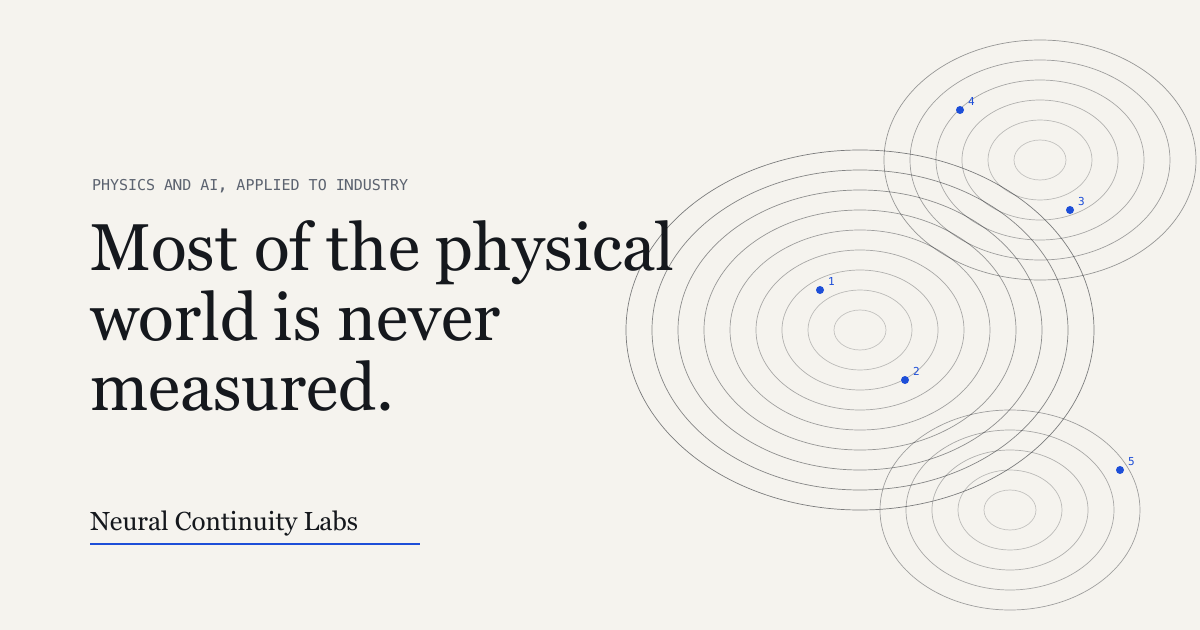
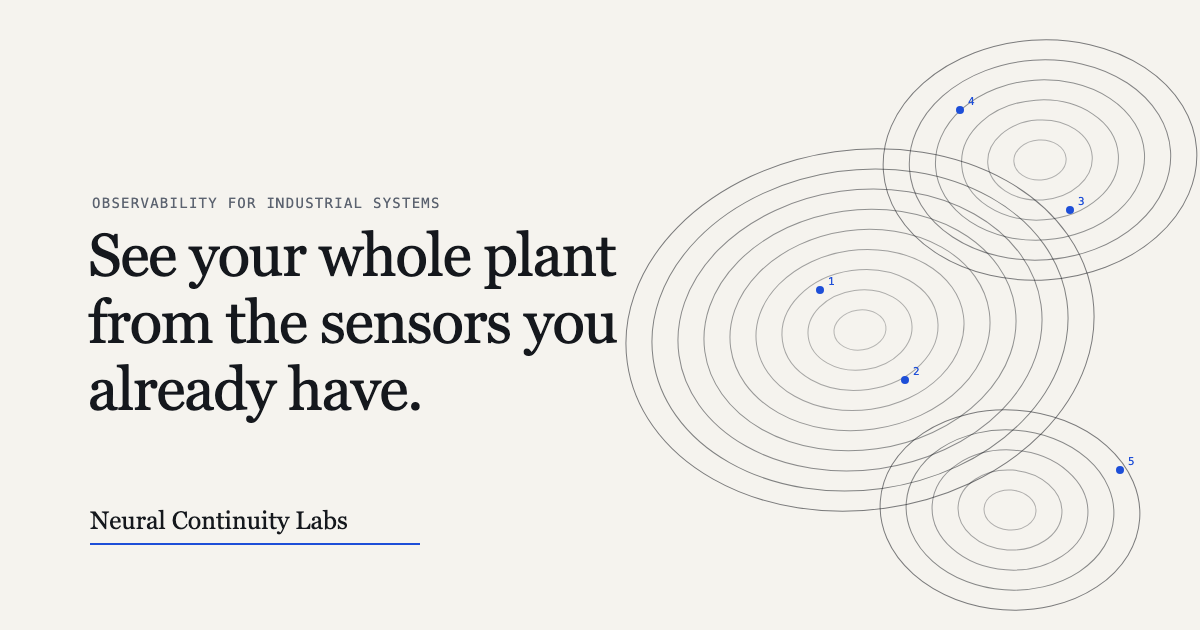
Hero: observability for industrial systems; drop the statement band
Headline 'See your whole plant from the sensors you already have.' under the
eyebrow 'Observability for industrial systems'. The former headline opens the
lead, which is otherwise unchanged. EN, DE, FR, page description and link
preview image updated. Statement band removed. Legal page nav: Mission
instead of the stale Ambition link.

diff --git a/i18n.js b/i18n.js
@@ -2,7 +2,7 @@
    English is also the fallback and the text baked into the HTML for no-JS visitors. */
 window.I18N = {
   "en": {
-    "meta.description": "Most of the physical world is never measured. Neural Continuity Labs builds physics-grounded AI that reconstructs what the sensors miss. Physics and AI, applied to industry.",
+    "meta.description": "See your whole plant from the sensors you already have. Neural Continuity Labs builds physics-grounded AI that reconstructs what the sensors miss. Observability for industrial systems.",
     "meta.title.index": "Neural Continuity Labs",
     "meta.title.legal": "Legal notice · Neural Continuity Labs",
     "skip": "Skip to content",
@@ -31,10 +31,9 @@ window.I18N = {
     "nav.approach": "Approach",
     "nav.industries": "Industries",
     "nav.about": "About",
-    "hero.title": "Most of the physical world is never measured.",
-    "hero.lead": "Neural Continuity Labs builds physics-grounded AI that reconstructs what the sensors miss: the state of an industrial system everywhere, not only where it is measured, with uncertainty an engineer can sign off on.",
+    "hero.title": "See your whole plant from the sensors you already have.",
+    "hero.lead": "Most of the physical world is never measured. Neural Continuity Labs builds physics-grounded AI that reconstructs what the sensors miss: the state of an industrial system everywhere, not only where it is measured, with uncertainty an engineer can sign off on.",
     "hero.cta": "Talk to us",
-    "statement": "The real world, unlike the simulated one, is rich and noisy. It is not a spherical cow. We build for that world: every model we train is a hypothesis about a physical system, and every deployment is a test of it. We keep what survives.",
     "approach.title": "Approach",
     "a1.title": "Pretrain on physics",
     "a1.body": "A generative model trained on simulated physics across many regimes, so it arrives at a plant already knowing how fields behave.",
@@ -53,7 +52,7 @@ window.I18N = {
     "about.p3": "The name is the research program behind the company: Neural Continuity, the study of differentiable computation as a regime with a boundary.",
     "contact.lead": "If you run a plant with a blind spot you would like to see into, write to us. Pilots, partnerships and questions are welcome.",
     "footer.place": "Paris-Saclay, France",
-    "hero.eyebrow": "Physics and AI, applied to industry",
+    "hero.eyebrow": "Observability for industrial systems",
     "hero.secondary": "How it works",
     "fig.label": "Fig. 1",
     "fig.caption": "Eleven measurements. The field between them is the problem.",
@@ -63,7 +62,7 @@ window.I18N = {
     "mission.lead": "A system that proposes hypotheses about the physical world, tests them against measurements, and keeps what survives. We start in industry, where every deployment is a falsifiable claim."
   },
   "de": {
-    "meta.description": "Der größte Teil der physischen Welt wird nie gemessen. Neural Continuity Labs entwickelt physikalisch fundierte KI, die rekonstruiert, was die Sensoren nicht sehen. Physik und KI, angewandt in der Industrie.",
+    "meta.description": "Ihre ganze Anlage im Blick, mit den Sensoren, die Sie schon haben. Neural Continuity Labs entwickelt physikalisch fundierte KI, die rekonstruiert, was die Sensoren nicht sehen. Beobachtbarkeit für industrielle Systeme.",
     "meta.title.index": "Neural Continuity Labs",
     "meta.title.legal": "Impressum · Neural Continuity Labs",
     "skip": "Zum Inhalt springen",
@@ -92,10 +91,9 @@ window.I18N = {
     "nav.approach": "Ansatz",
     "nav.industries": "Branchen",
     "nav.about": "Über uns",
-    "hero.title": "Der größte Teil der physischen Welt wird nie gemessen.",
-    "hero.lead": "Neural Continuity Labs entwickelt physikalisch fundierte KI, die rekonstruiert, was die Sensoren nicht sehen: den Zustand einer Industrieanlage überall, nicht nur dort, wo gemessen wird, mit einer Unsicherheit, die ein Ingenieur verantworten kann.",
+    "hero.title": "Ihre ganze Anlage im Blick, mit den Sensoren, die Sie schon haben.",
+    "hero.lead": "Der größte Teil der physischen Welt wird nie gemessen. Neural Continuity Labs entwickelt physikalisch fundierte KI, die rekonstruiert, was die Sensoren nicht sehen: den Zustand einer Industrieanlage überall, nicht nur dort, wo gemessen wird, mit einer Unsicherheit, die ein Ingenieur verantworten kann.",
     "hero.cta": "Sprechen Sie mit uns",
-    "statement": "Die reale Welt ist, anders als die simulierte, reich und verrauscht. Sie ist keine kugelförmige Kuh. Für diese Welt bauen wir: Jedes Modell, das wir trainieren, ist eine Hypothese über ein physikalisches System, und jeder Einsatz ist ihr Test. Was besteht, behalten wir.",
     "approach.title": "Ansatz",
     "a1.title": "Auf Physik vortrainiert",
     "a1.body": "Ein generatives Modell, trainiert auf simulierter Physik über viele Regime hinweg, sodass es an einer Anlage ankommt und bereits weiß, wie sich Felder verhalten.",
@@ -114,7 +112,7 @@ window.I18N = {
     "about.p3": "Der Name ist das Forschungsprogramm hinter dem Unternehmen: Neural Continuity, die Untersuchung differenzierbarer Berechnung als Regime mit einer Grenze.",
     "contact.lead": "Wenn Sie eine Anlage mit einem blinden Fleck betreiben, in den Sie hineinsehen möchten, schreiben Sie uns. Pilotprojekte, Partnerschaften und Fragen sind willkommen.",
     "footer.place": "Paris-Saclay, Frankreich",
-    "hero.eyebrow": "Physik und KI, angewandt in der Industrie",
+    "hero.eyebrow": "Beobachtbarkeit für industrielle Systeme",
     "hero.secondary": "Wie es funktioniert",
     "fig.label": "Abb. 1",
     "fig.caption": "Elf Messungen. Das Feld dazwischen ist das Problem.",
@@ -124,7 +122,7 @@ window.I18N = {
     "mission.lead": "Ein System, das Hypothesen über die physische Welt aufstellt, sie an Messungen prüft und behält, was besteht. Wir beginnen in der Industrie, wo jeder Einsatz eine falsifizierbare Behauptung ist."
   },
   "fr": {
-    "meta.description": "La plus grande partie du monde physique n'est jamais mesurée. Neural Continuity Labs développe une IA ancrée dans la physique qui reconstruit ce que les capteurs ne voient pas. Physique et IA, appliquées à l'industrie.",
+    "meta.description": "Voyez toute votre installation avec les capteurs que vous avez déjà. Neural Continuity Labs développe une IA ancrée dans la physique qui reconstruit ce que les capteurs ne voient pas. Observabilité des systèmes industriels.",
     "meta.title.index": "Neural Continuity Labs",
     "meta.title.legal": "Mentions légales · Neural Continuity Labs",
     "skip": "Aller au contenu",
@@ -153,10 +151,9 @@ window.I18N = {
     "nav.approach": "Approche",
     "nav.industries": "Secteurs",
     "nav.about": "À propos",
-    "hero.title": "La plus grande partie du monde physique n'est jamais mesurée.",
-    "hero.lead": "Neural Continuity Labs développe une IA ancrée dans la physique qui reconstruit ce que les capteurs ne voient pas : l'état d'une installation industrielle partout, et pas seulement là où l'on mesure, avec une incertitude qu'un ingénieur peut assumer.",
+    "hero.title": "Voyez toute votre installation avec les capteurs que vous avez déjà.",
+    "hero.lead": "La plus grande partie du monde physique n'est jamais mesurée. Neural Continuity Labs développe une IA ancrée dans la physique qui reconstruit ce que les capteurs ne voient pas : l'état d'une installation industrielle partout, et pas seulement là où l'on mesure, avec une incertitude qu'un ingénieur peut assumer.",
     "hero.cta": "Parlez-nous",
-    "statement": "Le monde réel, contrairement au monde simulé, est riche et bruité. Ce n'est pas une vache sphérique. C'est pour ce monde que nous construisons : chaque modèle que nous entraînons est une hypothèse sur un système physique, et chaque déploiement en est le test. Nous gardons ce qui résiste.",
     "approach.title": "Approche",
     "a1.title": "Pré-entraîner sur la physique",
     "a1.body": "Un modèle génératif entraîné sur de la physique simulée dans de nombreux régimes, de sorte qu'il arrive dans une installation en sachant déjà comment se comportent les champs.",
@@ -175,7 +172,7 @@ window.I18N = {
     "about.p3": "Le nom est celui du programme de recherche derrière l'entreprise : Neural Continuity, l'étude du calcul différentiable comme régime doté d'une frontière.",
     "contact.lead": "Si vous exploitez une installation avec un angle mort que vous aimeriez voir, écrivez-nous. Projets pilotes, partenariats et questions bienvenus.",
     "footer.place": "Paris-Saclay, France",
-    "hero.eyebrow": "Physique et IA, appliquées à l'industrie",
+    "hero.eyebrow": "Observabilité des systèmes industriels",
     "hero.secondary": "Comment ça marche",
     "fig.label": "Fig. 1",
     "fig.caption": "Onze mesures. Le champ entre elles est le problème.",

diff --git a/index.html b/index.html
@@ -4,7 +4,7 @@
   <meta charset="utf-8">
   <meta name="viewport" content="width=device-width, initial-scale=1">
   <title>Neural Continuity Labs</title>
-  <meta name="description" content="Most of the physical world is never measured. Neural Continuity Labs builds physics-grounded AI that reconstructs what the sensors miss. Physics and AI, applied to industry.">
+  <meta name="description" content="See your whole plant from the sensors you already have. Neural Continuity Labs builds physics-grounded AI that reconstructs what the sensors miss. Observability for industrial systems.">
   <meta name="theme-color" content="#f5f3ee">
   <link rel="icon" href="favicon.svg" type="image/svg+xml">
   <link rel="canonical" href="https://neuralcontinuitylabs.com/">
@@ -15,7 +15,7 @@
   <meta property="og:type" content="website">
   <meta property="og:site_name" content="Neural Continuity Labs">
   <meta property="og:title" content="Neural Continuity Labs">
-  <meta property="og:description" content="Most of the physical world is never measured. Physics and AI, applied to industry.">
+  <meta property="og:description" content="See your whole plant from the sensors you already have. Observability for industrial systems.">
   <meta property="og:url" content="https://neuralcontinuitylabs.com/">
   <meta property="og:image" content="https://neuralcontinuitylabs.com/og.png">
   <meta name="twitter:card" content="summary_large_image">
@@ -53,9 +53,9 @@
     <section class="hero">
       <div class="wrap hero-inner">
         <div class="hero-copy">
-          <p class="eyebrow" data-i18n="hero.eyebrow">Physics and AI, applied to industry</p>
-          <h1 data-i18n="hero.title">Most of the physical world is never measured.</h1>
-          <p class="lead" data-i18n="hero.lead">Neural Continuity Labs builds physics-grounded AI that reconstructs what the sensors miss: the state of an industrial system everywhere, not only where it is measured, with uncertainty an engineer can sign off on.</p>
+          <p class="eyebrow" data-i18n="hero.eyebrow">Observability for industrial systems</p>
+          <h1 data-i18n="hero.title">See your whole plant from the sensors you already have.</h1>
+          <p class="lead" data-i18n="hero.lead">Most of the physical world is never measured. Neural Continuity Labs builds physics-grounded AI that reconstructs what the sensors miss: the state of an industrial system everywhere, not only where it is measured, with uncertainty an engineer can sign off on.</p>
           <p class="actions">
             <a class="btn" href="#contact" data-i18n="hero.cta">Talk to us</a>
             <a class="btn-text" href="#approach" data-i18n="hero.secondary">How it works</a>
@@ -65,12 +65,6 @@
           <canvas id="field" aria-hidden="true"></canvas>
           <figcaption><span class="fig-label" data-i18n="fig.label">Fig. 1</span> <span data-i18n="fig.caption">Eleven measurements. The field between them is the problem.</span></figcaption>
         </figure>
-      </div>
-    </section>
-
-    <section class="statement">
-      <div class="wrap">
-        <p data-i18n="statement">The real world, unlike the simulated one, is rich and noisy. It is not a spherical cow. We build for that world: every model we train is a hypothesis about a physical system, and every deployment is a test of it. We keep what survives.</p>
       </div>
     </section>
 

diff --git a/legal.html b/legal.html
@@ -24,7 +24,7 @@
       <nav class="nav" aria-label="Site">
         <a href="./#approach" data-i18n="nav.approach">Approach</a>
         <a href="./#industries" data-i18n="nav.industries">Industries</a>
-        <a href="./#ambition" data-i18n="nav.ambition">Ambition</a>
+        <a href="./#mission" data-i18n="nav.mission">Mission</a>
         <a href="./#about" data-i18n="nav.about">About</a>
         <a href="./#contact" data-i18n="nav.contact">Contact</a>
         <div class="lang" role="group" aria-label="Language" data-i18n-attr="aria-label:lang.label">
